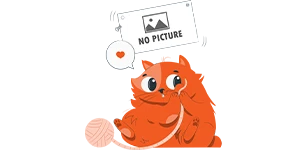
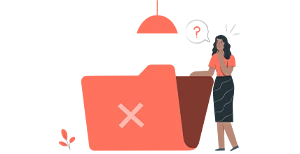
v1.0.3

diff --git a/templates/parts/portfolio-categories-grid.php b/templates/parts/portfolio-categories-grid.php
@@ -48,6 +48,8 @@ $total_items = count($terms);
 $section_id = get_query_var('section_id', 'portfolio-categories-grid');
 $title_id = $section_id . '-title';
 $desc_id = $section_id . '-desc';
+
+$default_image_url = trailingslashit(TIT_20260606_URL) . 'assets/img/no-image.webp';
 ?>
 
 <section class="sec sec-bg-<?php echo esc_attr($valid_section_bg); ?> sec-pt-5 sec-pb-5"
@@ -104,12 +106,7 @@ $desc_id = $section_id . '-desc';
                     );
                 }
 
-                $image_url = tit_20260606_get_setting_image_url(
-                    'default_image',
-                    'img-200-200',
-                    TIT_20260606_URL . 'assets/img/no-image.webp'
-                );
-
+                $image_url = $default_image_url;
                 $image_srcset = '';
 
                 if (!empty($image_id)) {
@@ -118,14 +115,18 @@ $desc_id = $section_id . '-desc';
                         'img-200-200'
                     );
 
-                    if (!empty($image_src[0])) {
+                    if (is_array($image_src) && !empty($image_src[0])) {
                         $image_url = $image_src[0];
-                    }
 
-                    $image_srcset = wp_get_attachment_image_srcset(
-                        (int) $image_id,
-                        'img-200-200'
-                    );
+                        $image_srcset = wp_get_attachment_image_srcset(
+                            (int) $image_id,
+                            'img-200-200'
+                        );
+
+                        if (empty($image_srcset)) {
+                            $image_srcset = '';
+                        }
+                    }
                 }
 
                 $description = term_description(
@@ -192,7 +193,8 @@ $desc_id = $section_id . '-desc';
                                      height="150"
                                      loading="lazy"
                                      decoding="async"
-                                     itemprop="image">
+                                     itemprop="image"
+                                     onerror="this.onerror=null;this.src='<?php echo esc_url($default_image_url); ?>';">
                             </figure>
 
                             <div class="description pb-3 pt-1">

diff --git a/portfolio-tehran-it.php b/portfolio-tehran-it.php
@@ -3,7 +3,7 @@
  * Plugin Name: Portfolio Tehran IT
  * Plugin URI: https://tehranit.net
 * Description: A lightweight developer-focused WordPress portfolio plugin with custom post type, portfolio categories, custom fields, reusable template parts, and theme-friendly portfolio templates.
-* Version: 1.0.2
+* Version: 1.0.3
  * Author: Mohammadreza Ahadian (Tehran IT)
  * Author URI: https://tehranit.net
  * Text Domain: portfolio-tehran-it

diff --git a/templates/parts/taxonomy-sub-categories.php b/templates/parts/taxonomy-sub-categories.php
@@ -57,7 +57,7 @@ $total_items = count($all_categories);
                         $image_url = tit_20260606_get_setting_image_url(
                             'default_image',
                             'img-200-200',
-                            TIT_20260606_URL . 'assets/defaults/no-image-120-120.webp'
+                            TIT_20260606_URL . 'assets/img/no-image.webp'
                         );
 
                         if (!empty($card_image_id)) {

diff --git a/templates/parts/portfolio-list.php b/templates/parts/portfolio-list.php
@@ -61,7 +61,6 @@ $section_id = 'portfolio-list-' . sanitize_title($portfolio_category ?: 'latest'
 $title_id = $section_id . '-title';
 $desc_id = $section_id . '-desc';
 ?>
-
 <section class="sec sec-bg-<?php echo esc_attr($valid_section_bg); ?> sec-pt-5 sec-pb-5"
          id="<?php echo esc_attr($section_id); ?>"
          aria-labelledby="<?php echo esc_attr($title_id); ?>"